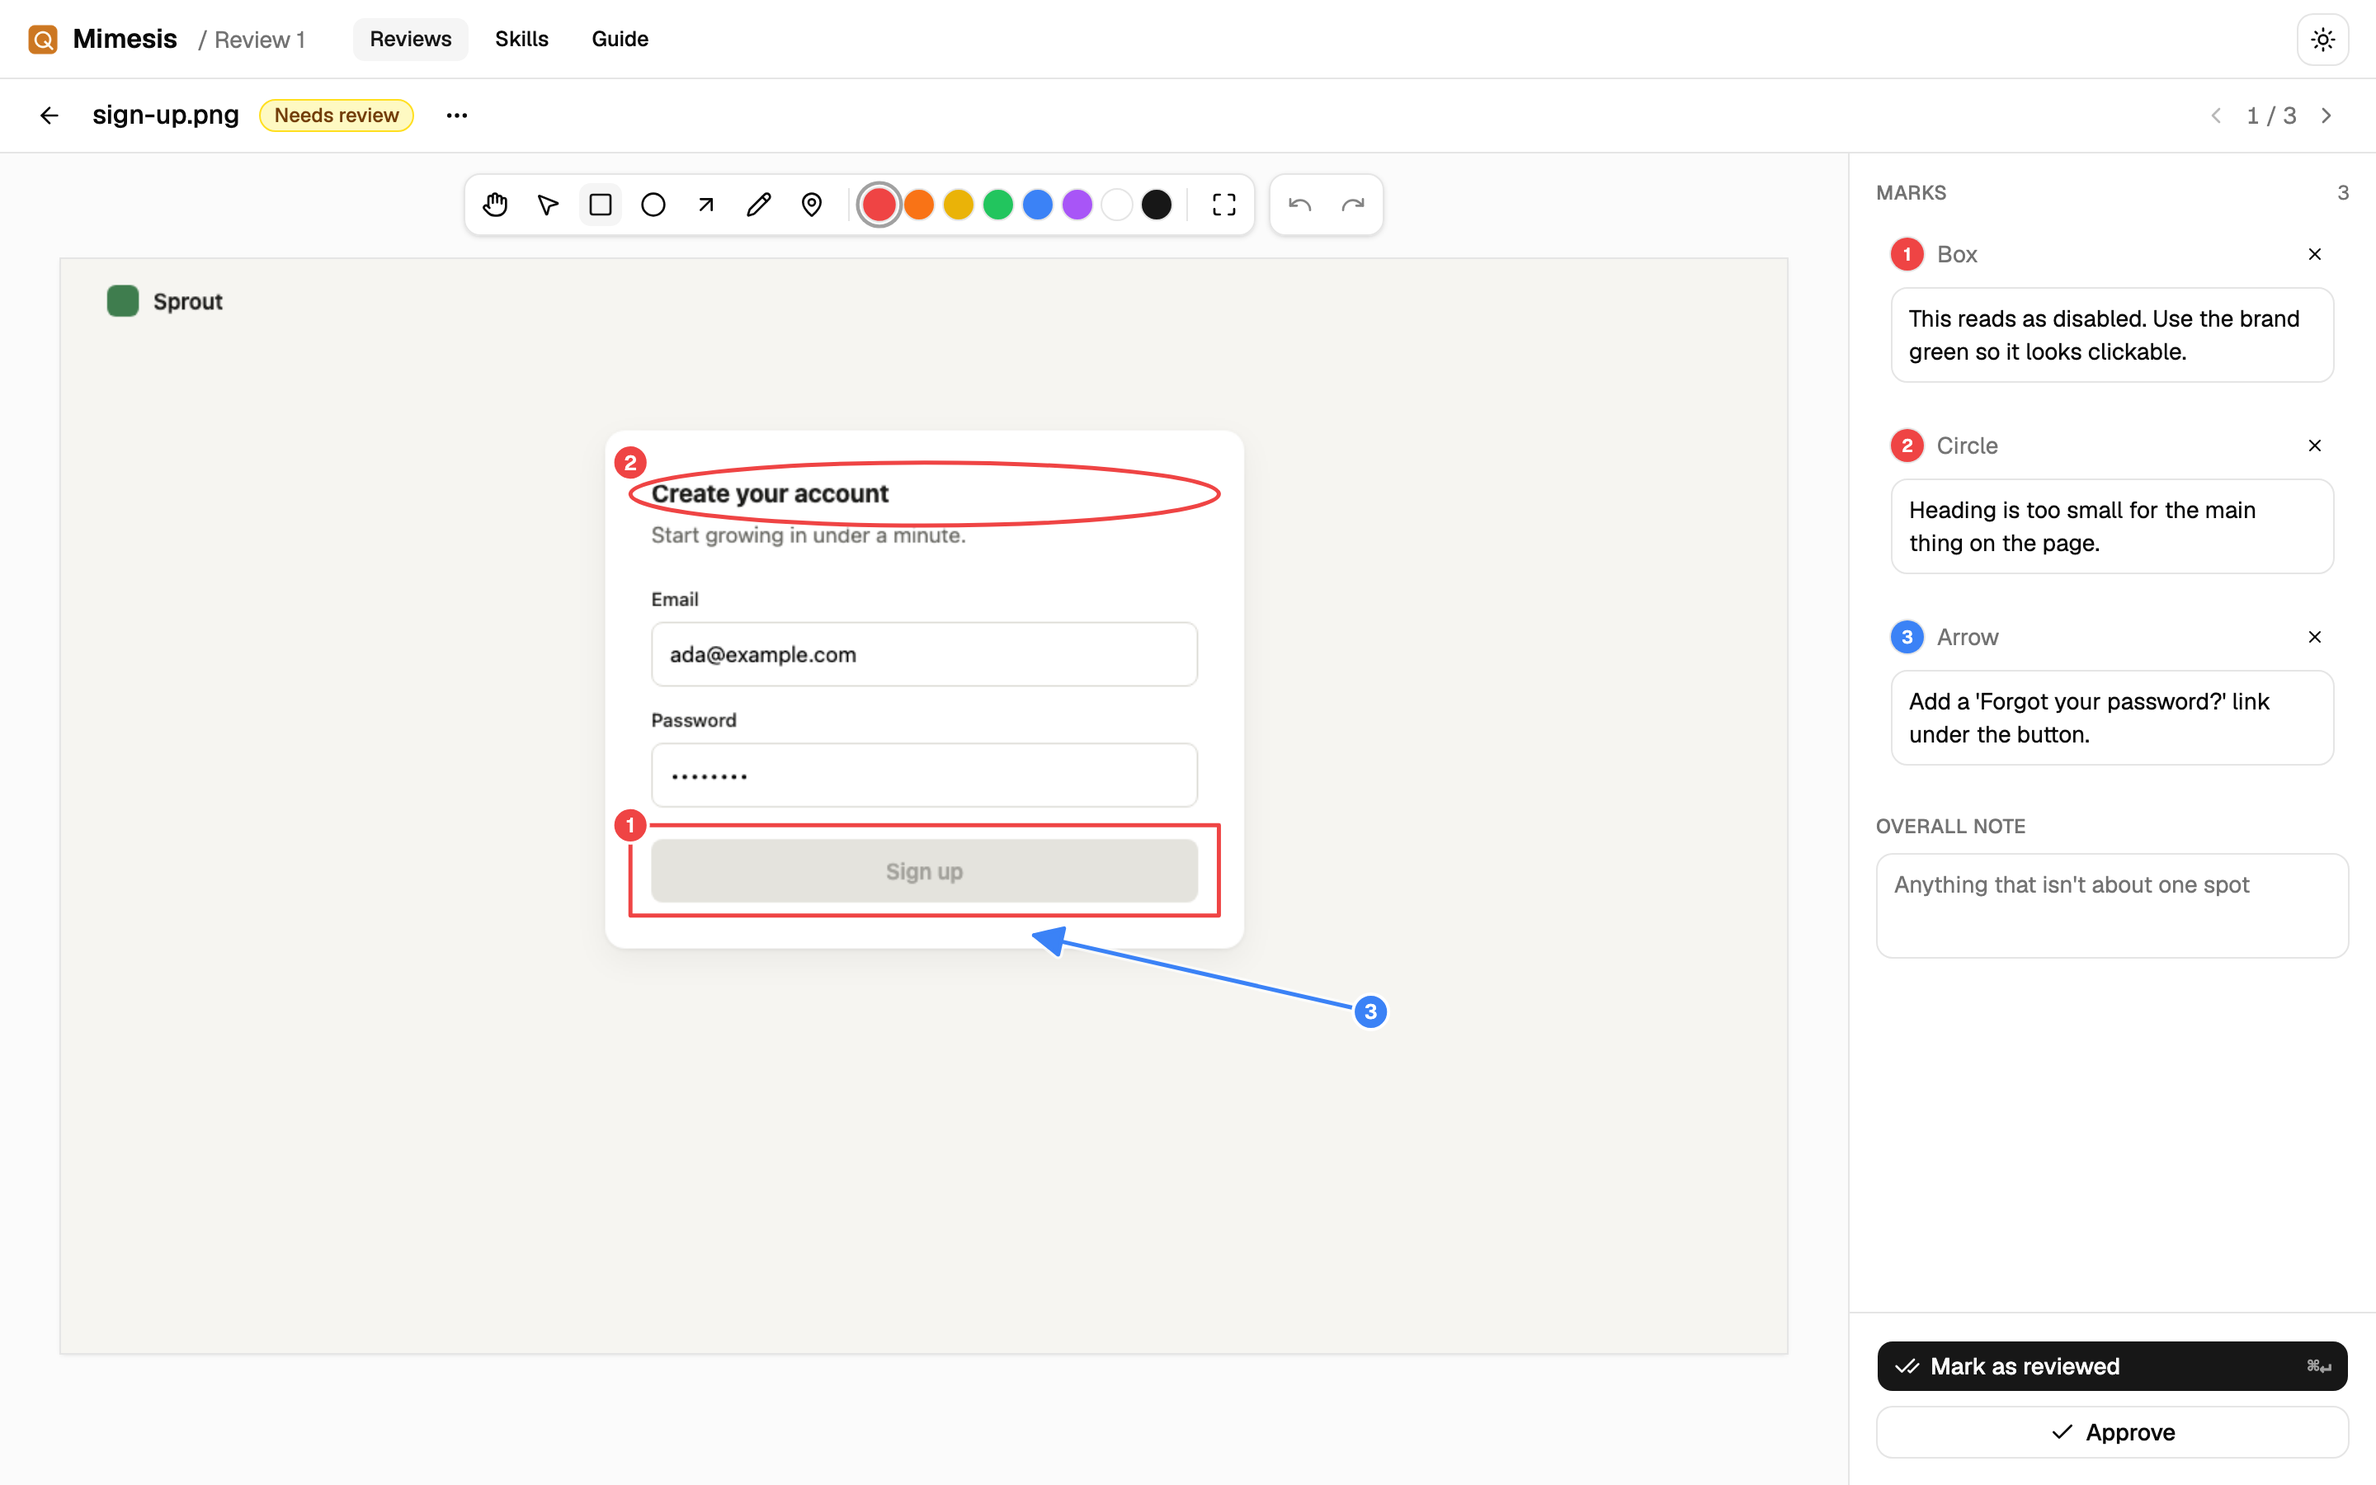
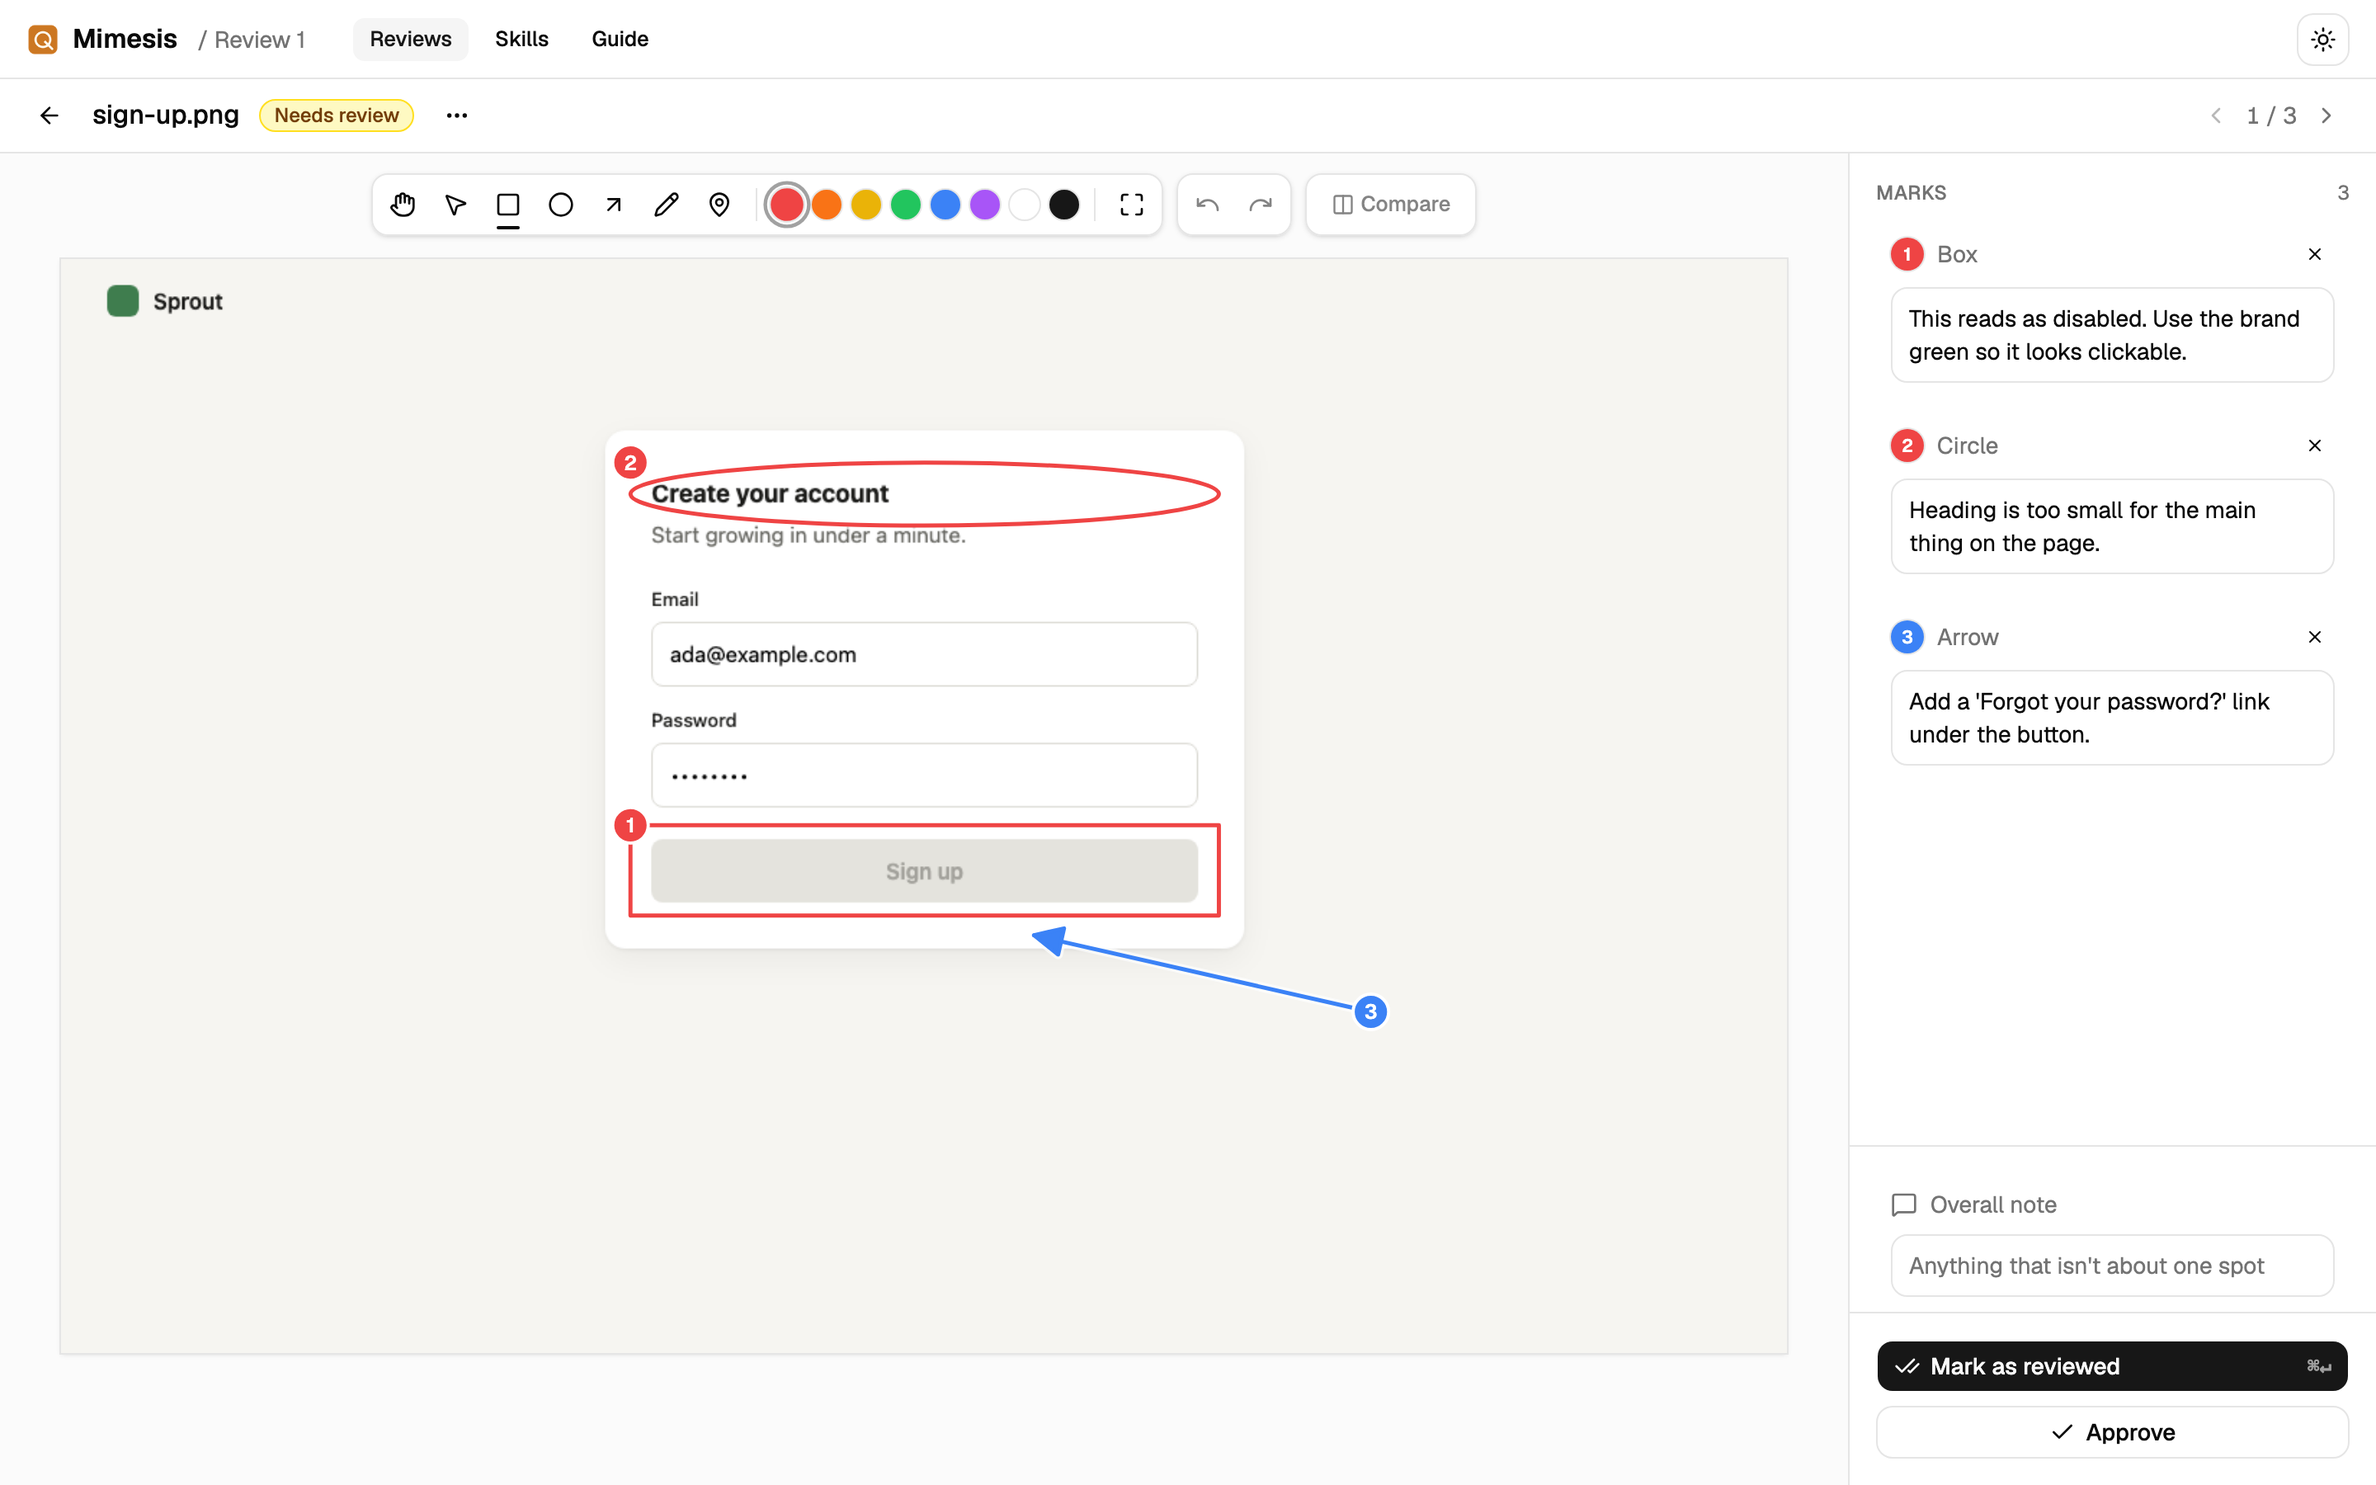
Compare is an on/off button (and the \ key), off by default; sidebar: scrolling marks, overall note pinned at the bottom

diff --git a/web/src/components/item-page.tsx b/web/src/components/item-page.tsx
@@ -1,8 +1,8 @@
-import { ArrowLeft, Check, CheckCheck, ChevronLeft, ChevronRight, Columns2, MessageSquare, MoreHorizontal, PenLine, Redo, RotateCcw, Trash2, Undo, Undo2, X } from 'lucide-react'
+import { ArrowLeft, Check, CheckCheck, ChevronLeft, ChevronRight, Columns2, MessageSquare, MoreHorizontal, Redo, RotateCcw, Trash2, Undo, Undo2, X } from 'lucide-react'
 import { useEffect, useRef, useState } from 'react'
 import { toast } from 'sonner'
 
-import { Annotator, TOOLS, Toolbar, type Tool } from '@/components/annotator'
+import { Annotator, PICKED, TOOLS, Toolbar, type Tool } from '@/components/annotator'
 import { ConfirmDelete } from '@/components/confirm-delete'
 import { COLORS } from '@/components/marks'
 import { StateBadge } from '@/components/state-badge'
@@ -69,21 +69,6 @@ function RoundPager({ item, round, onPick }: { item: Item; round: Round; onPick:
           <ChevronRight />
         </Button>
       </div>
-    </div>
-  )
-}
-
-function ModeToggle({ mode, setMode }: { mode: Mode; setMode: (mode: Mode) => void }) {
-  return (
-    <div className="flex gap-1 rounded-lg bg-muted p-1">
-      <Button variant={mode === 'compare' ? 'outline' : 'ghost'} size="xs" onClick={() => setMode('compare')}>
-        <Columns2 />
-        Compare
-      </Button>
-      <Button variant={mode === 'mark' ? 'outline' : 'ghost'} size="xs" onClick={() => setMode('mark')}>
-        <PenLine />
-        Mark up
-      </Button>
     </div>
   )
 }
@@ -264,6 +249,7 @@ function EditRound({
       }
       if (isTyping(event) || event.metaKey || event.ctrlKey || event.altKey) return
       if (event.key === '0') setFitKey((k) => k + 1)
+      if (event.key === '\\' && previous) setMode(mode === 'compare' ? 'mark' : 'compare')
       const picked = TOOLS.find((t) => t.key && t.key === event.key.toLowerCase())
       if (picked) {
         setTool(picked.tool)
@@ -289,6 +275,20 @@ function EditRound({
             </Button>
             <Button variant="ghost" size="icon-sm" aria-label="Redo (⇧⌘Z)" title="Redo (⇧⌘Z)" disabled={!drawing || future.length === 0} onClick={redo}>
               <Redo />
+            </Button>
+          </div>
+          <div className="flex gap-1 rounded-lg border bg-background/95 p-1 shadow-sm backdrop-blur">
+            <Button
+              variant="ghost"
+              size="sm"
+              aria-pressed={mode === 'compare'}
+              disabled={!previous}
+              title={previous ? 'Compare with the last round (\\)' : 'Nothing to compare yet: this is the first round'}
+              onClick={() => setMode(mode === 'compare' ? 'mark' : 'compare')}
+              className={cn('relative', mode === 'compare' && PICKED)}
+            >
+              <Columns2 />
+              Compare
             </Button>
           </div>
         </div>
@@ -338,49 +338,68 @@ function EditRound({
       </div>
 
       <aside className="flex w-80 shrink-0 flex-col border-l">
-        <div className="grid flex-1 content-start gap-5 overflow-y-auto p-4">
-          <AiNote round={round} />
-          {previous && (
+        {mode === 'compare' && previous ? (
+          // Comparing: nothing can be drawn, so the sidebar shows what came back and what was asked for.
+          <div className="grid min-h-0 flex-1 content-start gap-5 overflow-y-auto p-4">
+            <AiNote round={round} />
             <Section title={`Your marks, round ${previous.number}`}>
               <ReadOnlyMarks round={previous} />
             </Section>
-          )}
-          <Section title="Marks" action={annotations.length > 0 && <span className="text-xs text-muted-foreground">{annotations.length}</span>}>
-            {annotations.length === 0 ? (
-              <p className="text-sm text-muted-foreground">Draw on the image to mark what should change. Each mark gets a number and a note.</p>
-            ) : (
-              <div className="grid gap-2">
-                {annotations.map((a, i) => (
-                  <div
-                    key={a.id}
-                    className={cn('grid gap-2 rounded-lg border p-2 transition-colors', selected === a.id ? 'border-ring bg-muted/50' : 'border-transparent')}
-                    onClick={() => setSelected(a.id)}
-                  >
-                    <div className="flex items-center gap-2">
-                      <NumberDot number={i + 1} color={a.color} />
-                      <span className="flex-1 text-sm text-muted-foreground">{KIND_LABELS[a.kind]}</span>
-                      <Button variant="ghost" size="icon-xs" aria-label="Delete mark" onClick={(e) => (e.stopPropagation(), remove(a.id))}>
-                        <X />
-                      </Button>
-                    </div>
-                    <Textarea
-                      autoFocus={focus === a.id}
-                      rows={2}
-                      placeholder="What should change here?"
-                      value={a.note}
-                      onFocus={() => setSelected(a.id)}
-                      onChange={(e) => change(annotations.map((other) => (other.id === a.id ? { ...other, note: e.target.value } : other)), note, a.id)}
-                      className="min-h-0 resize-none text-sm"
-                    />
+          </div>
+        ) : (
+          <>
+            <div className="grid min-h-0 flex-1 content-start gap-2 overflow-y-auto p-4">
+              <Section title="Marks" action={annotations.length > 0 && <span className="text-xs text-muted-foreground">{annotations.length}</span>}>
+                {annotations.length === 0 ? (
+                  <p className="text-sm text-muted-foreground">Draw on the image to mark what should change. Each mark gets a number and a note.</p>
+                ) : (
+                  <div className="grid gap-2">
+                    {annotations.map((a, i) => (
+                      <div
+                        key={a.id}
+                        className={cn('grid gap-2 rounded-lg border p-2 transition-colors', selected === a.id ? 'border-ring bg-muted/50' : 'border-transparent')}
+                        onClick={() => setSelected(a.id)}
+                      >
+                        <div className="flex items-center gap-2">
+                          <NumberDot number={i + 1} color={a.color} />
+                          <span className="flex-1 text-sm text-muted-foreground">{KIND_LABELS[a.kind]}</span>
+                          <Button variant="ghost" size="icon-xs" aria-label="Delete mark" onClick={(e) => (e.stopPropagation(), remove(a.id))}>
+                            <X />
+                          </Button>
+                        </div>
+                        <Textarea
+                          autoFocus={focus === a.id}
+                          rows={2}
+                          placeholder="What should change here?"
+                          value={a.note}
+                          onFocus={() => setSelected(a.id)}
+                          onChange={(e) => change(annotations.map((other) => (other.id === a.id ? { ...other, note: e.target.value } : other)), note, a.id)}
+                          className="min-h-0 resize-none text-sm"
+                        />
+                      </div>
+                    ))}
                   </div>
-                ))}
+                )}
+              </Section>
+            </div>
+            {/* Pinned under the marks, laid out like one of them. */}
+            <div className="border-t p-4 pb-0">
+              <div className="grid gap-2 rounded-lg border border-transparent p-2">
+                <div className="flex items-center gap-2">
+                  <MessageSquare className="size-4 text-muted-foreground" />
+                  <span className="flex-1 text-sm text-muted-foreground">Overall note</span>
+                </div>
+                <Textarea
+                  rows={2}
+                  placeholder="Anything that isn't about one spot"
+                  value={note}
+                  onChange={(e) => change(annotations, e.target.value, 'overall')}
+                  className="min-h-0 resize-none text-sm"
+                />
               </div>
-            )}
-          </Section>
-          <Section title="Overall note">
-            <Textarea rows={3} placeholder="Anything that isn't about one spot" value={note} onChange={(e) => change(annotations, e.target.value, 'overall')} className="resize-none text-sm" />
-          </Section>
-        </div>
+            </div>
+          </>
+        )}
         <div className="grid gap-2 border-t p-4">
           <Button onClick={send} disabled={!canSend}>
             <CheckCheck />
@@ -480,10 +499,9 @@ export function ItemPage({ review, item }: { review: Review; item: Item }) {
   const isLatest = round.id === current.id
   const previous = item.rounds.find((r) => r.number === current.number - 1) ?? null
   const editing = isLatest && item.state === 'needs_review'
-  const startMode = (): Mode => (previous && current.annotations.length === 0 ? 'compare' : 'mark')
-  const [mode, setMode] = useState<Mode>(startMode)
-  // eslint-disable-next-line react-hooks/exhaustive-deps
-  useEffect(() => setMode(startMode()), [current.id])
+  // Compare is off until switched on, for each new round.
+  const [mode, setMode] = useState<Mode>('mark')
+  useEffect(() => setMode('mark'), [current.id])
   const [confirmDelete, setConfirmDelete] = useState(false)
   const pager = <RoundPager item={item} round={round} onPick={setViewing} />
 
@@ -522,11 +540,6 @@ export function ItemPage({ review, item }: { review: Review; item: Item }) {
             </DropdownMenuItem>
           </DropdownMenuContent>
         </DropdownMenu>
-        {editing && previous && (
-          <div className="ml-4">
-            <ModeToggle mode={mode} setMode={setMode} />
-          </div>
-        )}
         <div className="ml-auto flex items-center gap-1 text-sm text-muted-foreground">
           <Button variant="ghost" size="icon-sm" disabled={!prev} aria-label="Previous image" onClick={() => prev && go(itemHash(review.id, prev.id))}>
             <ChevronLeft />

diff --git a/web/src/components/annotator.tsx b/web/src/components/annotator.tsx
@@ -26,6 +26,9 @@ const clamp = (v: number) => Math.min(Math.max(v, 0), 1)
 // `drawing` off (Compare, earlier rounds) greys out everything but Move and Fit.
 // `holding` is a right drag in progress: the hand shows as picked and the
 // rest fades until the button is let go.
+// The black bar under a picked tool or a switched-on button.
+export const PICKED = 'after:absolute after:inset-x-1.5 after:-bottom-0.5 after:h-0.5 after:rounded-full after:bg-foreground'
+
 export function Toolbar({
   tool,
   setTool,
@@ -59,7 +62,7 @@ export function Toolbar({
               disabled={!drawing && t !== 'move'}
               className={cn(
                 'relative',
-                current === t && 'after:absolute after:inset-x-1.5 after:-bottom-0.5 after:h-0.5 after:rounded-full after:bg-foreground',
+                current === t && PICKED,
                 t !== 'move' && faded,
               )}
             >

diff --git a/web/src/components/guide-page.tsx b/web/src/components/guide-page.tsx
@@ -18,7 +18,7 @@ const STEPS = [
   {
     image: '4-compare',
     title: 'Compare the new version',
-    text: 'The image comes back to you with your marks on the left and the new version on the right, plus a note from the AI. Approve it, or switch to Mark up and go again.',
+    text: 'The image comes back to you. Press Compare to see your marks on the left and the new version on the right, with the note from the AI. Approve it, or turn Compare off and mark it up again.',
   },
   {
     image: '5-finish',

diff --git a/docs/using-mimesis.md b/docs/using-mimesis.md
@@ -28,16 +28,20 @@ back to the tool you were using when you let go. Or pick **Move** (the
 hand) and drag with the left button. Write what should change at that spot. Use **Overall note** for
 anything that isn't about one spot.
 
-Everything saves as you go.
+Your marks are listed on the right, and the overall note stays at the
+bottom. Everything saves as you go.
 
 When you're done with an image, press **Mark as reviewed**. If it's already
 right, press **Approve**.
 
 ## When a new version comes back
 
-The image comes back to you marked "Needs review". **Compare** shows your
-last marks on the left and the new version on the right, with the AI's note
-on the right-hand side. Approve it, or switch to **Mark up** and go again.
+The image comes back to you marked "Needs review". Press **Compare** (at
+the end of the bar above the image, or the `\` key) to see your last marks
+on the left and the new version on the right. The sidebar then shows the
+AI's note and what you asked for last time. You can't draw while comparing;
+press Compare again to go back to marking up. Then approve it, or mark it
+up and go again.
 
 To look closer, scroll to zoom in or out, and drag to move around. In
 Compare, both images move together. **Fit** (the last button in the bar
@@ -74,3 +78,4 @@ before deleting anything.
 | Scroll | Zoom in or out |
 | Right-click and drag | Move around, with any tool |
 | `0` | Fit the image on screen |
+| `\` | Turn Compare on or off |
